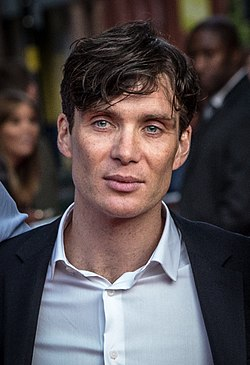
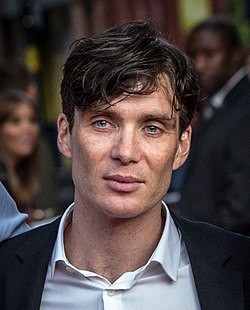
quotes and show_all page now should be complete. Adjusted image sizing and css

diff --git a/quotes/templates/show_all.html b/quotes/templates/show_all.html
@@ -19,7 +19,7 @@
     <h2>All Images</h2>
     <div class="images-list">
         {% for image_url in all_images %}
-            <img src="{% static image_url %}" alt="Related Image">
+            <img src="{% static image_url %}" class="fixed-img">
         {% endfor %}
     </div>
 {% endblock %}

diff --git a/quotes/templates/quotes.html b/quotes/templates/quotes.html
@@ -8,5 +8,5 @@
 
 {% block content %}
     <p>{{ generate_random_quote }}</p>
-    <img src="{% static generate_random_image %}">
+    <img src="{% static generate_random_image %}" class="fixed-img">
 {% endblock %}

diff --git a/static/quotes_styles.css b/static/quotes_styles.css
@@ -95,3 +95,9 @@ footer {
     font-size: 0.8em;
     color: #aaa;
 }
+
+.fixed-img {
+    width: 250px;
+    height: 250px;
+    object-fit: cover;
+}

diff --git a/staticfiles/quotes_styles.css b/staticfiles/quotes_styles.css
@@ -95,3 +95,9 @@ footer {
     font-size: 0.8em;
     color: #aaa;
 }
+
+.fixed-img {
+    width: 250px;
+    height: 250px;
+    object-fit: cover;
+}
